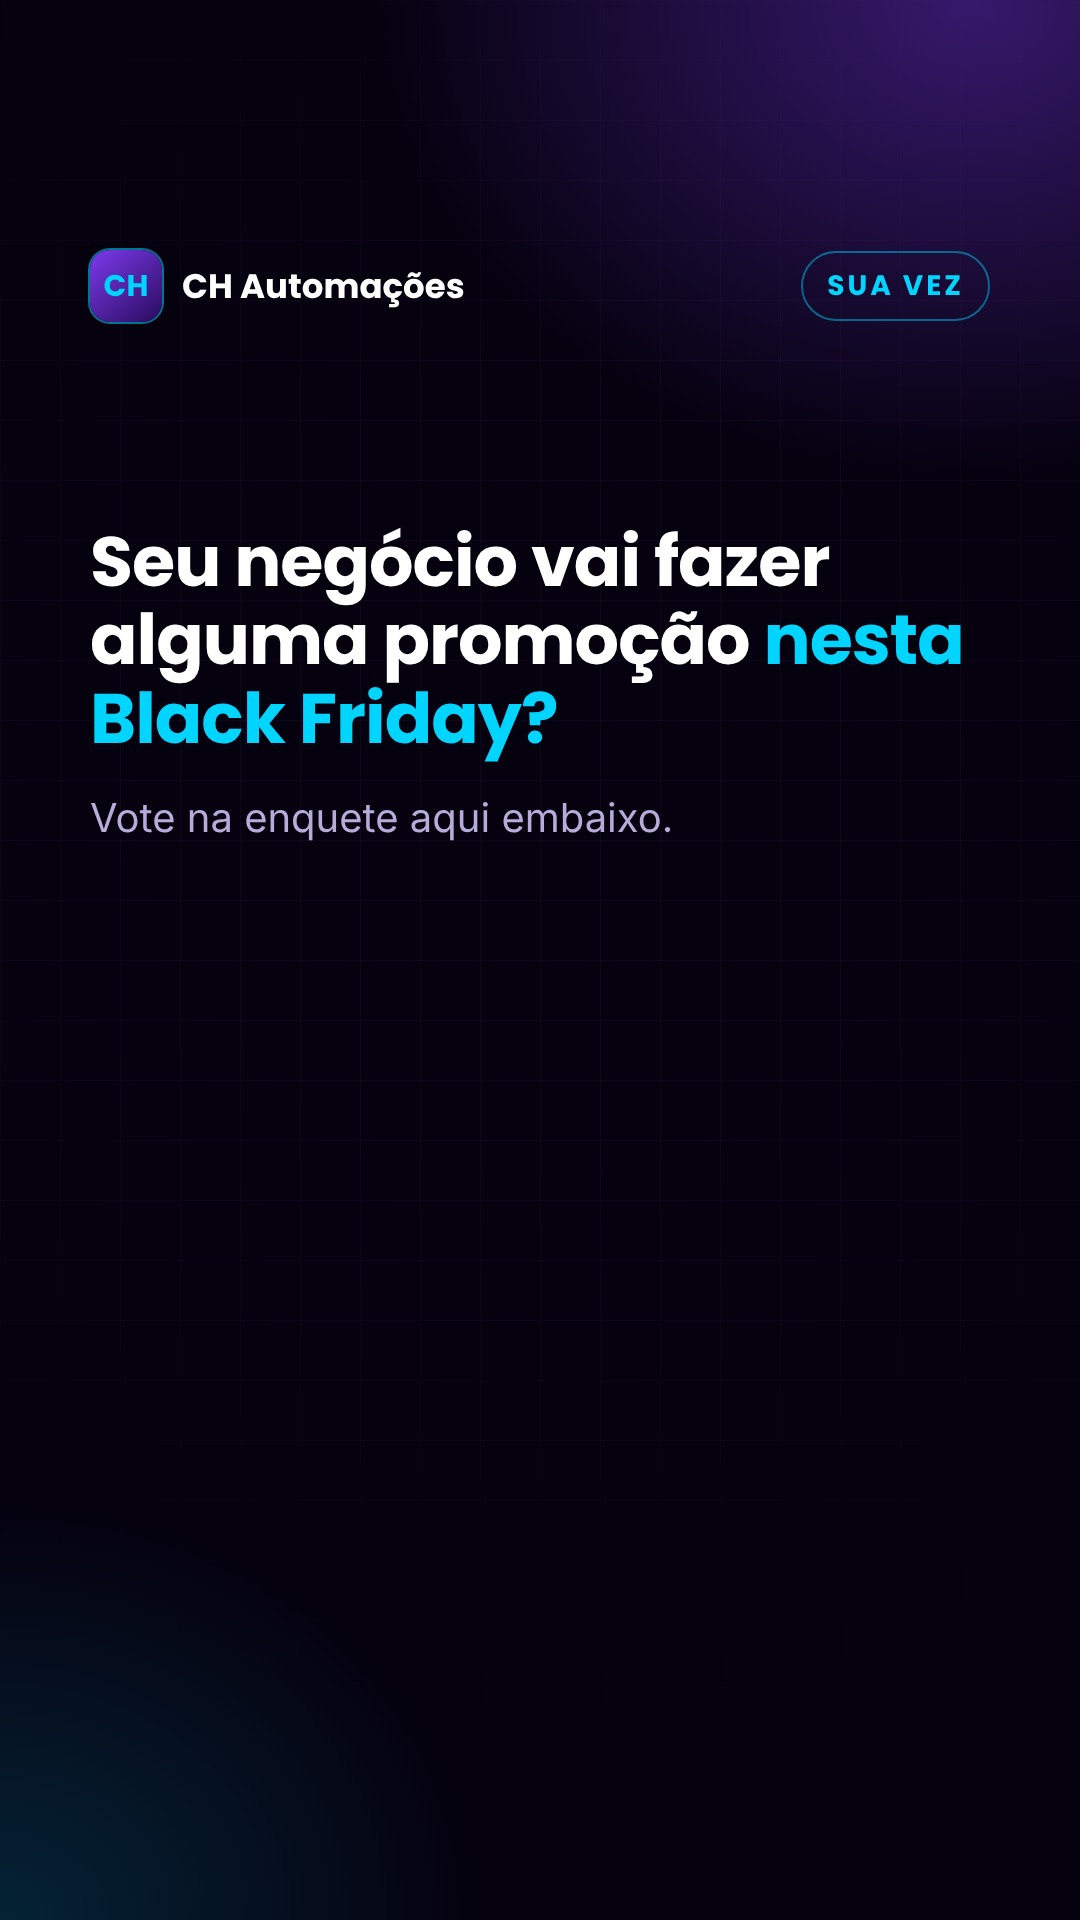
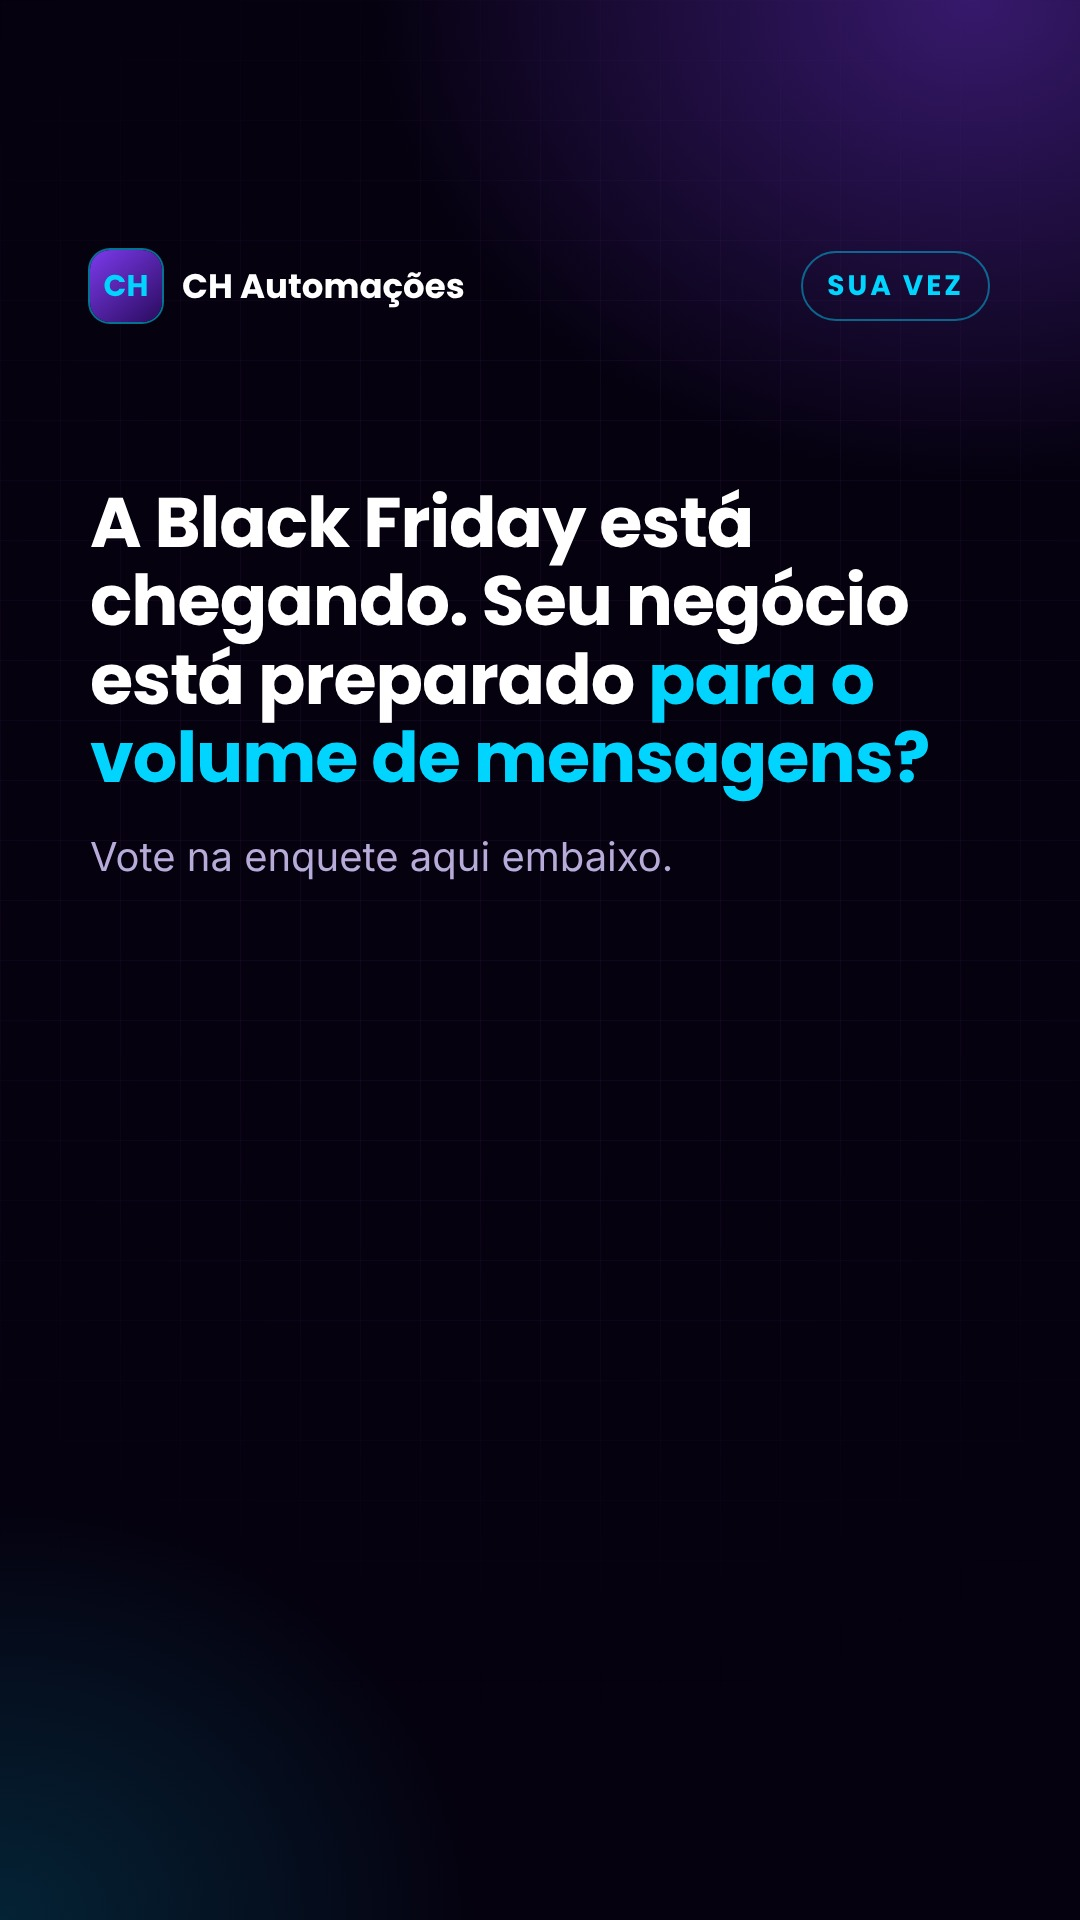
Story seg2 23/11: nova pergunta da enquete (pedido do Caio)
Claude-Session: https://claude.ai/code/session_01LDjfSwbVCKA9yHqyWgXknV

Changed region(s): [[0.0611, 0.25, 0.8861, 0.4688]]

diff --git a/modelos/stories_2026-11-23.html b/modelos/stories_2026-11-23.html
@@ -66,7 +66,7 @@ const S = {
       <div class="passo"><i>3</i>Segue a conversa com o que já sabe</div></div>
     <p class="sub">Resposta errada custa mais caro que uma resposta que demora. <b>Mande “REGRA” no direct.</b></p></div>`,
   seg2: `${topo('Sua vez')}<div class="meio">
-    <h2>Seu negócio vai fazer alguma promoção <em>nesta Black Friday?</em></h2>
+    <h2>A Black Friday está chegando. Seu negócio está preparado <em>para o volume de mensagens?</em></h2>
     <p class="sub">Vote na enquete aqui embaixo.</p>
     <div style="height:560px"></div></div>`,
   // TERÇA 24/11

diff --git a/modelos/stories_log.md b/modelos/stories_log.md
@@ -31,7 +31,7 @@ Uma linha por story. Séries fixas por dia: seg = bastidores + pergunta; ter = d
 | 16/11 | 20h | 2026-11/stories_2026-11-16/seg3.jpg | Extra (pedido do Caio) | Tempo de resposta: o que muda em cada demora (sequência da enquete) | (segue no próximo) |
 | 16/11 | 20h01 | 2026-11/stories_2026-11-16/seg4.jpg | Extra (pedido do Caio) | 51% priorizam rapidez, 85% voltam com atendimento ágil (CX Trends 2026) + Thays | RESPOSTA |
 | 23/11 | 10h | 2026-11/stories_2026-11-23/seg1.jpg | Bastidores | A regra que mais reforço na Thays: não inventar | REGRA |
-| 23/11 | 18h | 2026-11/stories_2026-11-23/seg2.jpg | Sua vez | Vai fazer promoção na Black Friday? (enquete) | enquete manual (Caio) |
+| 23/11 | 18h | 2026-11/stories_2026-11-23/seg2.jpg | Sua vez | Black Friday: seu negócio está preparado para o volume de mensagens? (enquete) | enquete manual (Caio) |
 | 24/11 | 10h | 2026-11/stories_2026-11-23/ter1.jpg | Dica rápida | Respostas rápidas do WhatsApp Business (atalhos com /) | ATALHO |
 | 24/11 | 18h | 2026-11/stories_2026-11-23/ter2.jpg | Mito ou verdade | “Mandar áudio é o jeito mais prático de atender” (depende) | ÁUDIO |
 | 25/11 | 10h | 2026-11/stories_2026-11-23/qua1.jpg | Antes e depois | “Aceita Pix? Parcela no cartão?” | PAGAMENTO |
